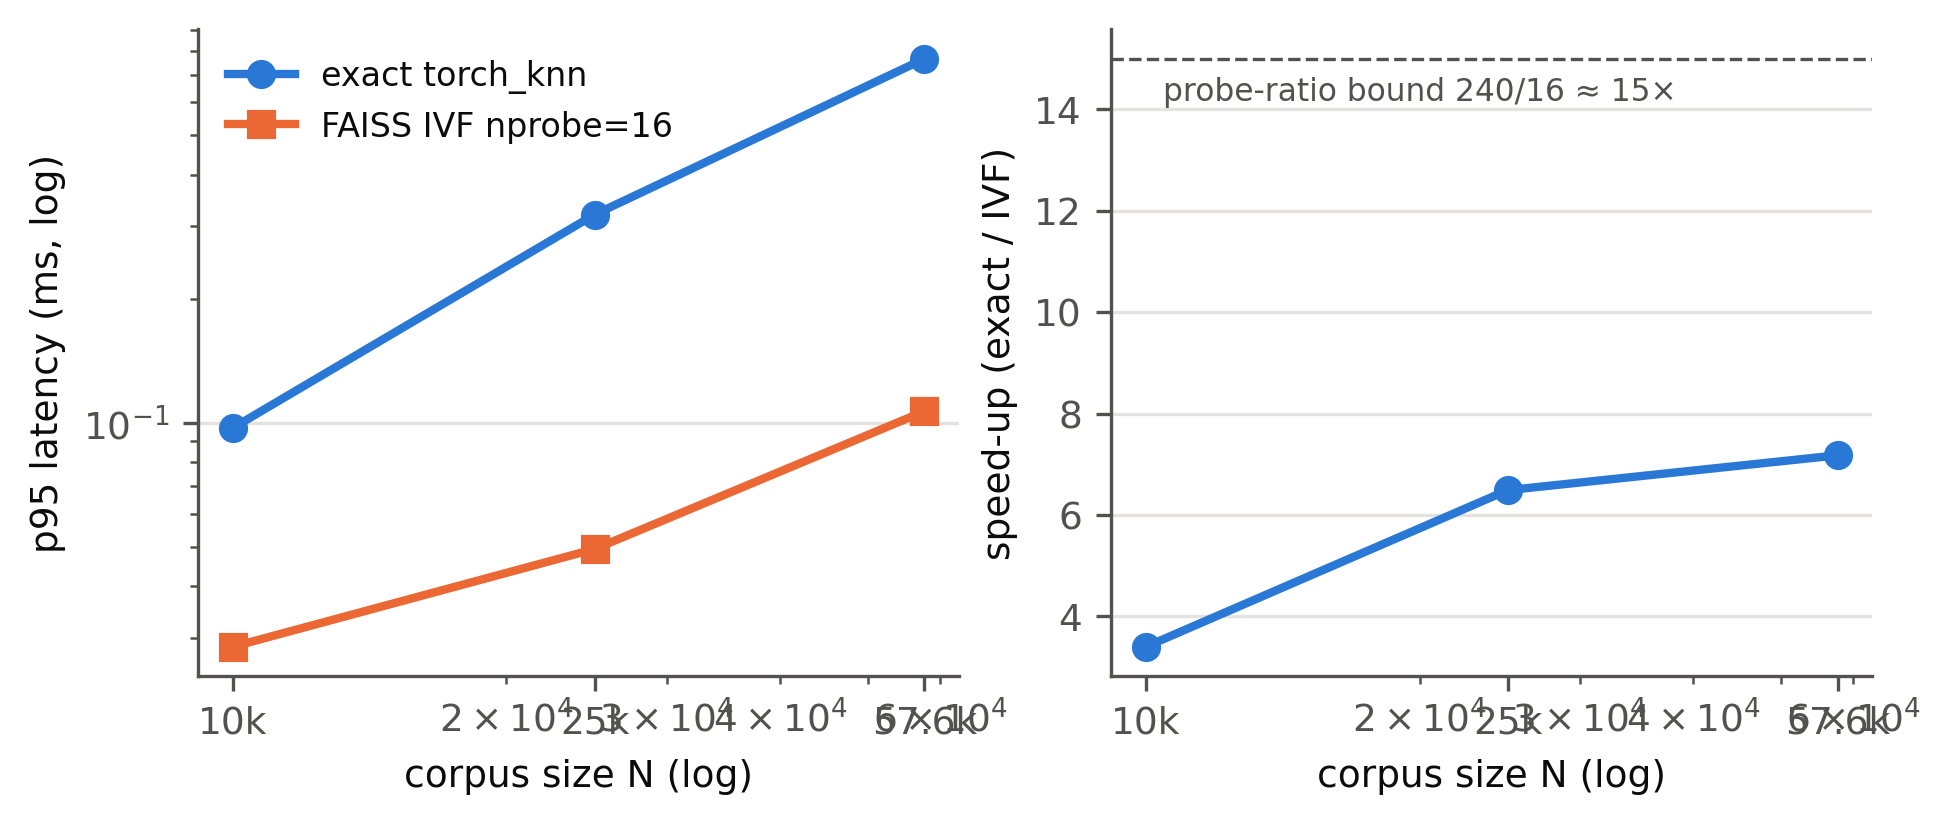
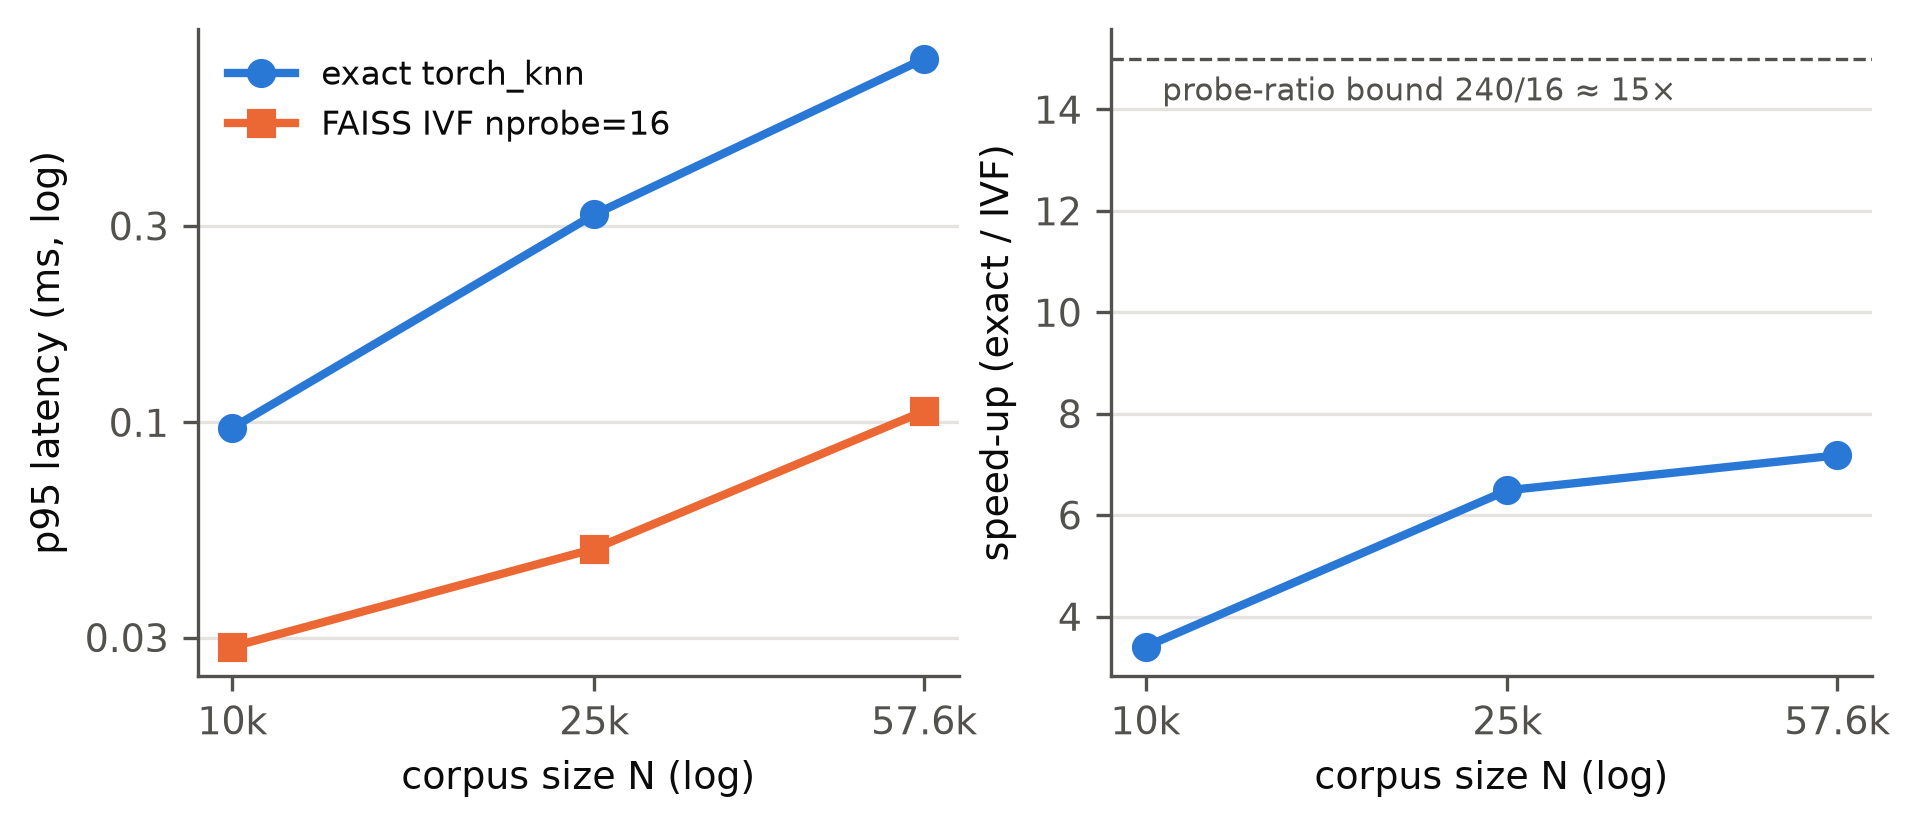
E1 figures: no overlapping log-axis ticks; caption spaces

diff --git a/AI_USAGE.md b/AI_USAGE.md
@@ -40,3 +40,4 @@ Every agent-assisted change gets a row. The final report's "Use of AI Tools" sec
 | 2026-11-12 | Overleaf copy "FinSight-AI Final Report (CS 541)"; `report/final_report.tex` | Claude | At J's request via J's Chrome: copied the course template into J's account (template untouched), uploaded figures/tables/report, fixed the template header (CS 541 — Artificial Intelligence, long title wraps, plain page numbers), References on a new page; corrected "14" → "13" answers at the 400-token limit (checked against `final_gen_a/answers.jsonl`) | J |
 | 2026-11-12 | `report/presentation_script.md`, slide notes | Claude | Writing at J's request: script shortened from ~9.7 to ~9 min (1,254 → 981 words, same numbers and disclosure) | J |
 | 2026-11-13 | `report/final_report.tex` (repo + Overleaf), `wiki/experiments/final_test.md` | Claude | Fix after H's review: Limitations line had the wrong denominator; now "13 of the 70 answered (14 of all 100 LLM calls)", checked against `final_gen_a/answers.jsonl` | J, H |
+| 2026-11-13 | `notebooks/02_e1_retrieval_methods.ipynb`, `report/figures/e1_scaling.*`, `e1_pareto.caption.txt`, Overleaf | Claude | At J's request (instead of H): hid overlapping log-axis minor tick labels, readable y ticks, fixed two missing spaces in captions; figure redrawn from the `wiki/experiments/e1_scale.md` numbers because H's E1 result files are not on J's machine | J |
